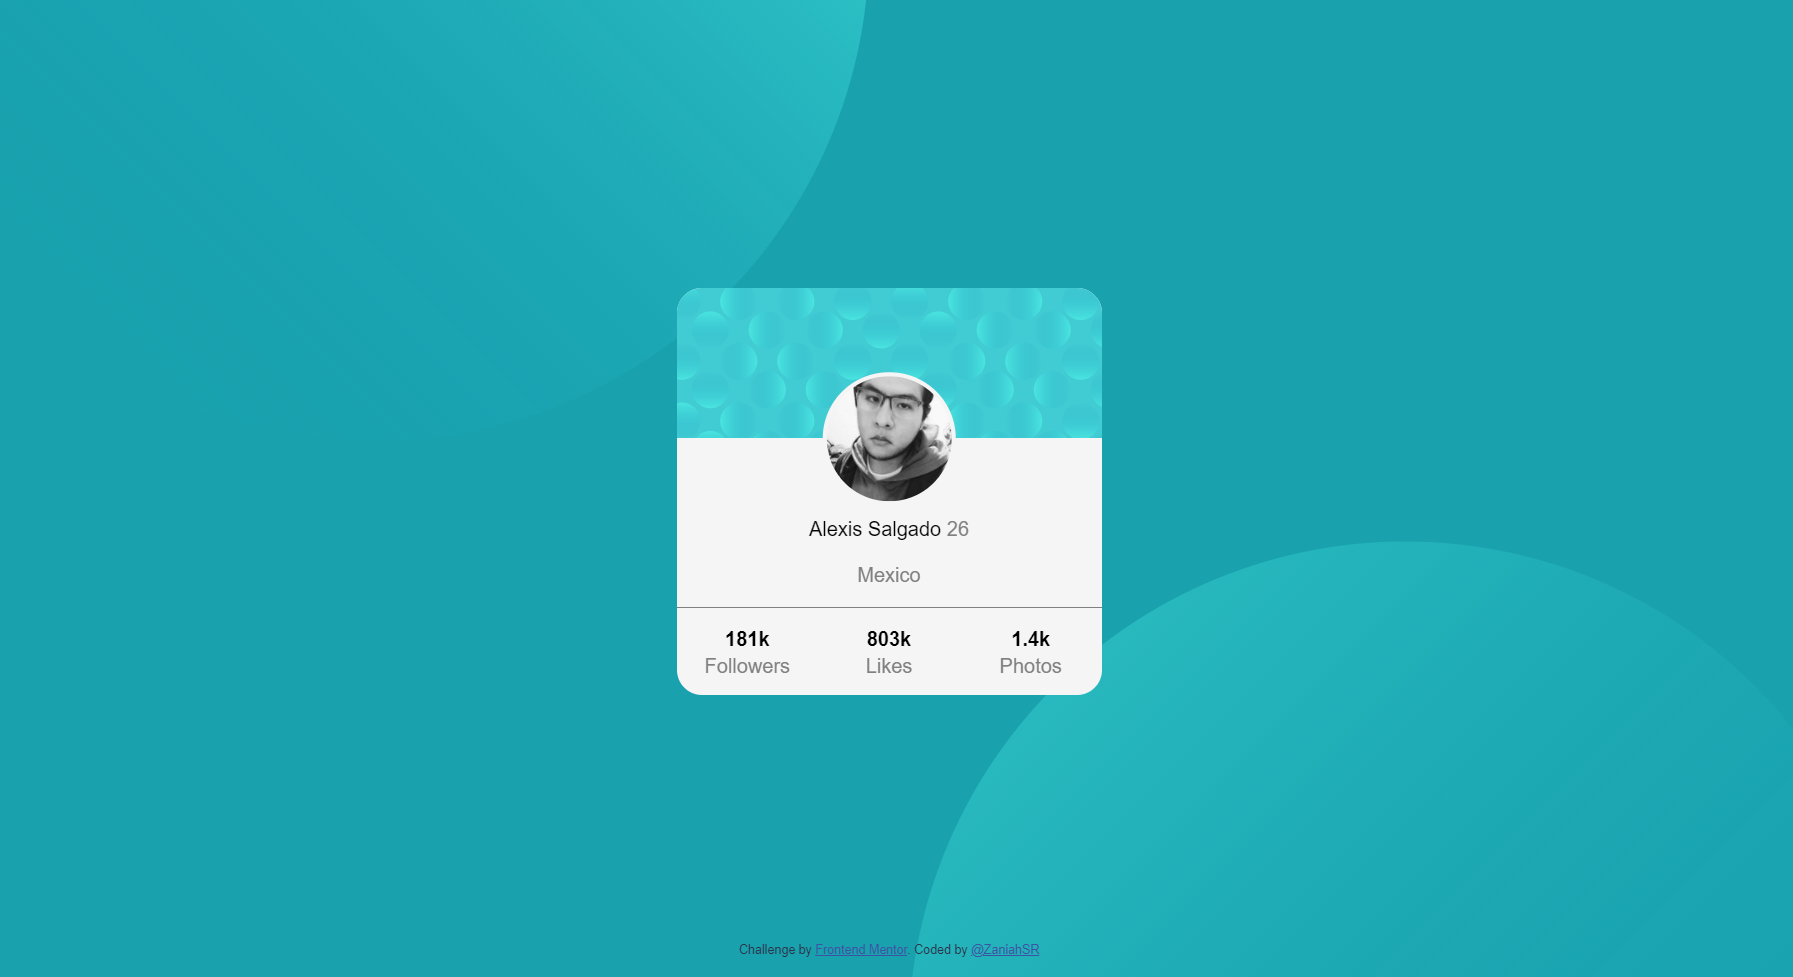
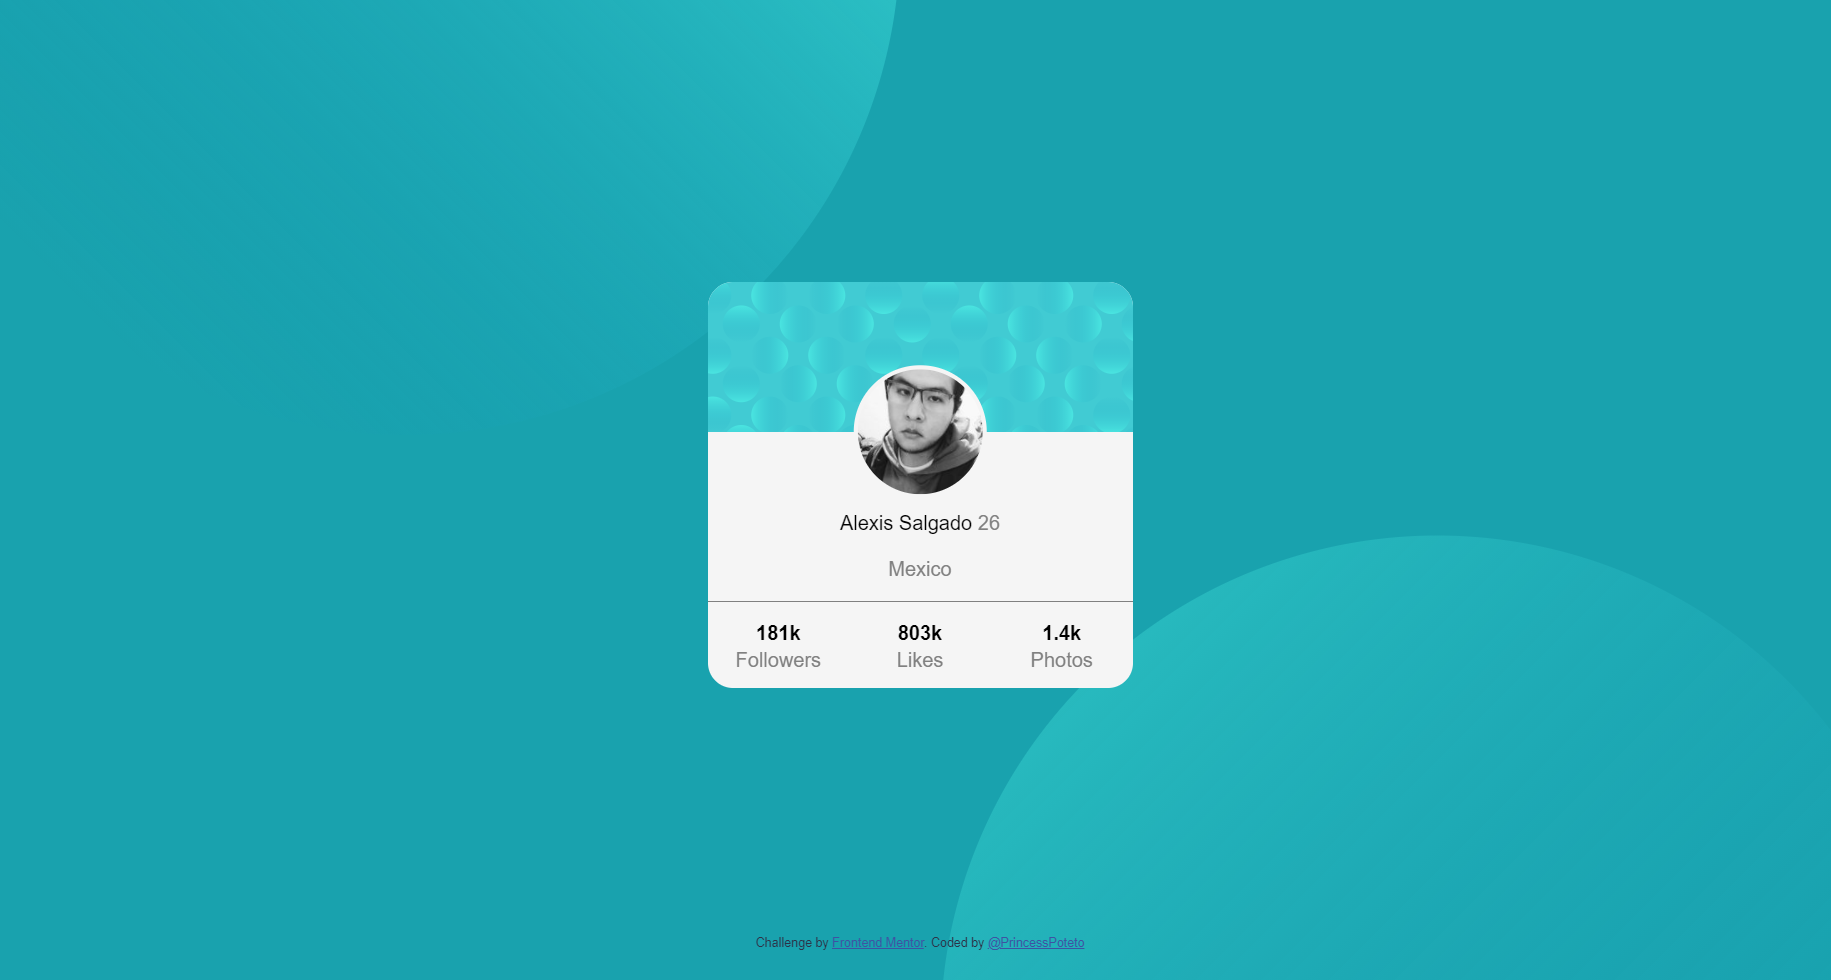
CardPorfile

Changed region(s): [[0.3748, 0.2764, 0.6247, 0.7369], [0.406, 0.9519, 0.5934, 0.9826], [0.4685, 0.0, 0.4997, 0.0614]]

diff --git a/index.html b/index.html
@@ -12,7 +12,7 @@
     <main class="main">
         <article class="card">
             <header class="card_header">
-            <img src="./assets/images/spika.jpg" width="100" height="100" alt="porfile image" class="card_image">  
+            <img src="./assets/images/spika.jpg " width="100" height="100" alt="porfile image" class="card_image">  
             </header>
             <section class="card_body">
             <p class="card_text">

diff --git a/README.md b/README.md
@@ -1,0 +1,62 @@
+![portada frontend mentor](/images/frontend_portada.png)
+
+<h1 align="center">Profile card</h1>
+
+<hr>
+
+<div align="center">
+  <h3>
+    <a href="https://princesspoteto.github.io/CardPorfile/">
+      Live site
+    </a>
+    <span> | </span>
+    <a href="https://www.frontendmentor.io/solutions/profile-card-2VyWAiqxq">
+      Solution
+    </a>
+    <span> | </span>
+    <a href="https://www.frontendmentor.io/challenges/profile-card-component-cfArpWshJ">
+      Challenge
+    </a>
+  </h3>
+</div>
+
+<div align="center">
+   Solution for a challenge from  <a href="https://www.frontendmentor.io/" target="_blank">Frontendmentor.io</a>.
+</div>
+
+---
+
+## Table of contents
+
+- [Overview](#overview)
+  - [Built with](#built-with)
+- [Contact](#contact)
+
+<!-- Overview section -->
+
+## Overview
+![preview screenshot](./images/PorfileCard.png)
+
+- Frontend Mentor challenges help you improve your coding skills by building realistic projects.
+
+- You can see a live site at [Profile Card Component](https://princesspoteto.github.io/CardPorfile/)
+
+### Built with
+
+- CSS custom properties
+- Flexbox
+- Mobile-first workflow
+
+<!-- Contact section -->
+
+##  Contact
+
+- Github Repositories [@PrincessPoteto](https://github.com/PrincessPoteto)
+
+- Frontend Mentor [@PrincessPoteto](https://www.frontendmentor.io/profile/PrincessPoteto)
+
+---
+
+<div align="right">
+    <p>PrincessPoteto 2021</p>
+</div>
